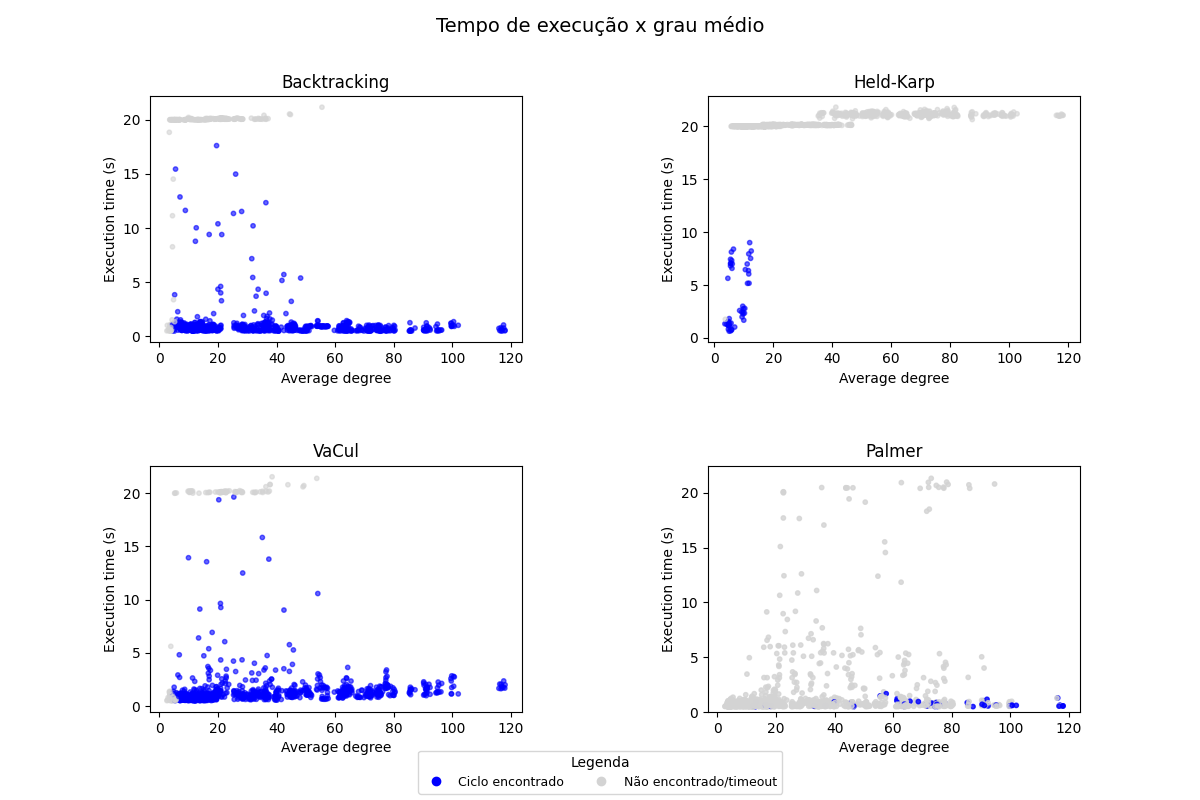
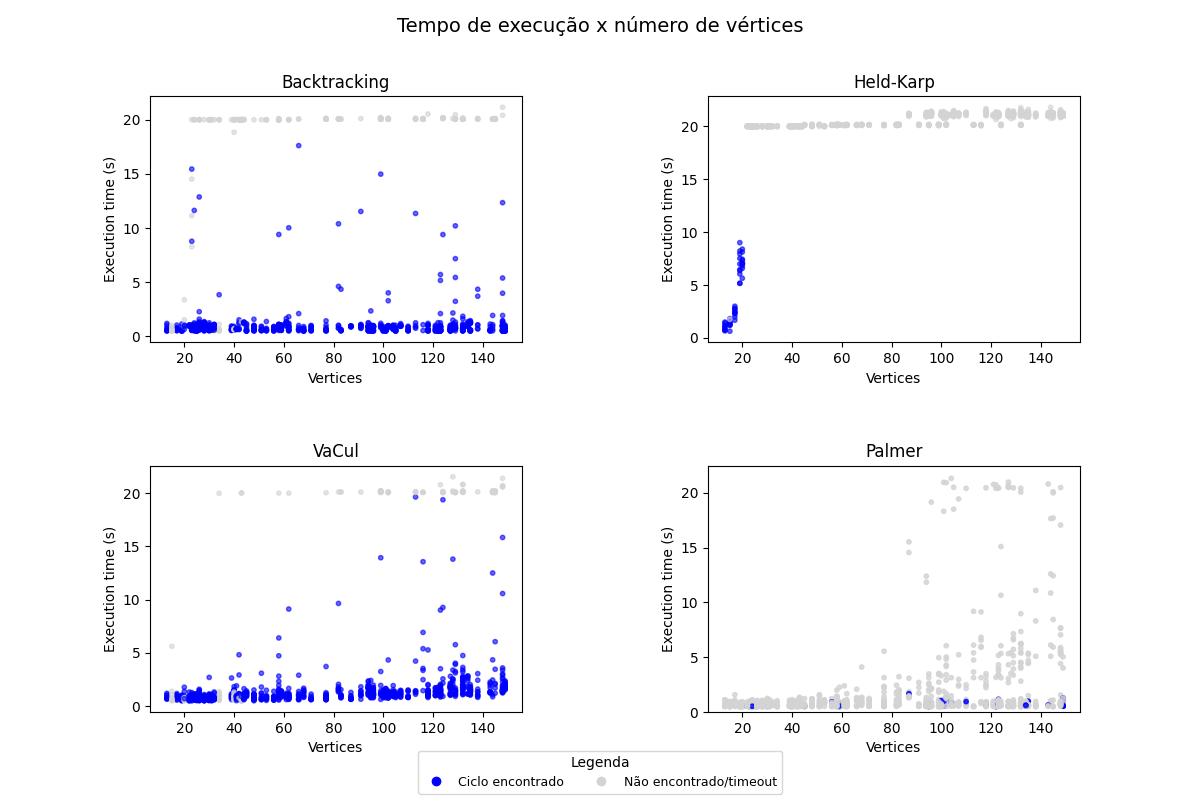
Final

diff --git a/grafico_150.py b/grafico_150.py
@@ -4,49 +4,40 @@ import matplotlib.pyplot as plt
 
 fig = plt.figure(figsize=(12,8))
 gs = fig.add_gridspec(2, 2, hspace=0.5, wspace=0.5)
-fig.suptitle("Tempo de execução x grau médio", fontsize=14)
+fig.suptitle("Tempo de execução x número de vértices", fontsize=14)
 df = pd.read_csv("results_backtracking.csv")
 
 ax1 = fig.add_subplot(gs[0, 0])
-df['degree_bin'] = pd.cut(df['avg_degree'], bins=30)
-grouped = df.groupby('degree_bin', as_index=False).mean(numeric_only=True)
-grouped['degree_center'] = grouped['degree_bin'].apply(lambda x: x.mid)
 colors = df['found'].map({True: 'blue', False: 'lightgray'})
-ax1.scatter(df['avg_degree'], df['time_s'],
+ax1.scatter(df['n'], df['time_s'],
             c=colors, alpha=0.6, s=10)
 
 
-ax1.set_xlabel("Average degree")
+ax1.set_xlabel("Vertices")
 ax1.set_ylabel("Execution time (s)")
 ax1.set_title("Backtracking")
 plt.tight_layout()
 
 df = pd.read_csv("results_palmer.csv")
 ax2 = fig.add_subplot(gs[1, 1])
-df['degree_bin'] = pd.cut(df['avg_degree'], bins=30)
-grouped = df.groupby('degree_bin', as_index=False).mean(numeric_only=True)
-grouped['degree_center'] = grouped['degree_bin'].apply(lambda x: x.mid)
 colors = df['found'].map({True: 'blue', False: 'lightgray'})
-ax2.scatter(df['avg_degree'], df['time_s'],
+ax2.scatter(df['n'], df['time_s'],
             c=colors, alpha=0.8, s=10)
 
 ax2.set_ylim(0, 22.5)
-ax2.set_xlabel("Average degree")
+ax2.set_xlabel("Vertices")
 ax2.set_ylabel("Execution time (s)")
 ax2.set_title("Palmer")
 plt.tight_layout()
 
 df = pd.read_csv("results_vacul.csv")
 ax3 = fig.add_subplot(gs[1, 0])
-df['degree_bin'] = pd.cut(df['avg_degree'], bins=30)
-grouped = df.groupby('degree_bin', as_index=False).mean(numeric_only=True)
-grouped['degree_center'] = grouped['degree_bin'].apply(lambda x: x.mid)
 colors = df['found'].map({True: 'blue', False: 'lightgray'})
-ax3.scatter(df['avg_degree'], df['time_s'],
+ax3.scatter(df['n'], df['time_s'],
             c=colors, alpha=0.6, s=10)
 
 
-ax3.set_xlabel("Average degree")
+ax3.set_xlabel("Vertices")
 ax3.set_ylabel("Execution time (s)")
 ax3.set_title("VaCul")
 plt.tight_layout()
@@ -54,14 +45,11 @@ fig.savefig("teste.png")
 
 df = pd.read_csv("results_heldkarp.csv")
 ax4 = fig.add_subplot(gs[0, 1])
-df['degree_bin'] = pd.cut(df['avg_degree'], bins=30)
-grouped = df.groupby('degree_bin', as_index=False).mean(numeric_only=True)
-grouped['degree_center'] = grouped['degree_bin'].apply(lambda x: x.mid)
 colors = df['found'].map({True: 'blue', False: 'lightgray'})
-ax4.scatter(df['avg_degree'], df['time_s'],
+ax4.scatter(df['n'], df['time_s'],
             c=colors, alpha=0.6, s=10)
 
-ax4.set_xlabel("Average degree")
+ax4.set_xlabel("Vertices")
 ax4.set_ylabel("Execution time (s)")
 ax4.set_title("Held-Karp")
 
